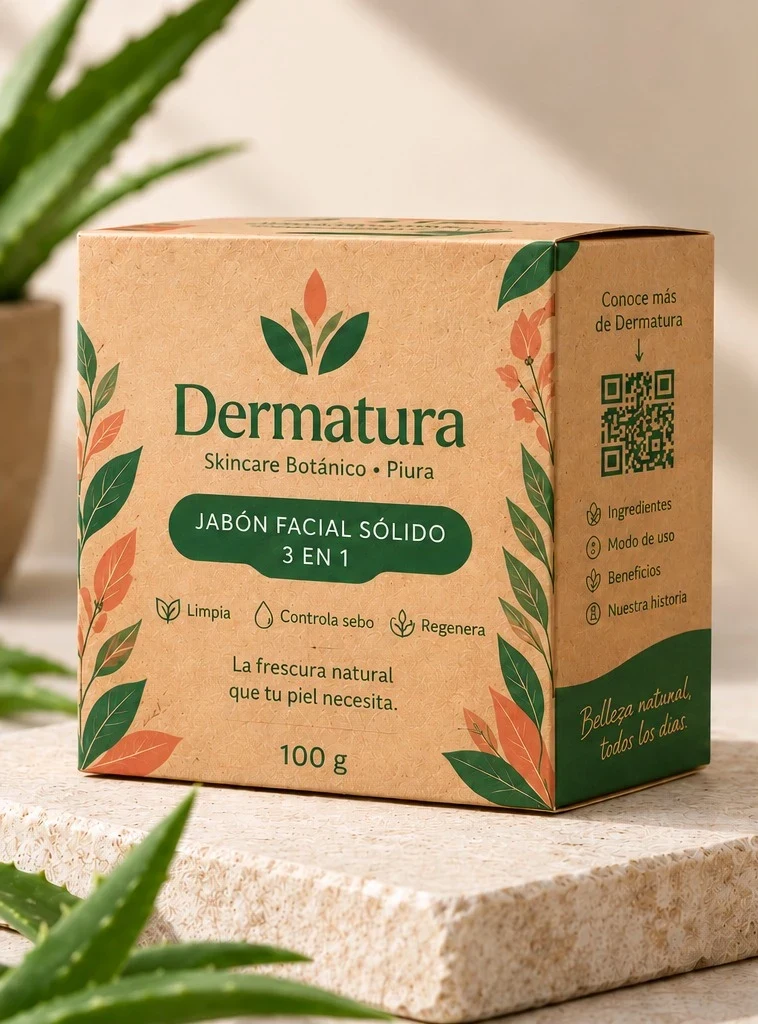
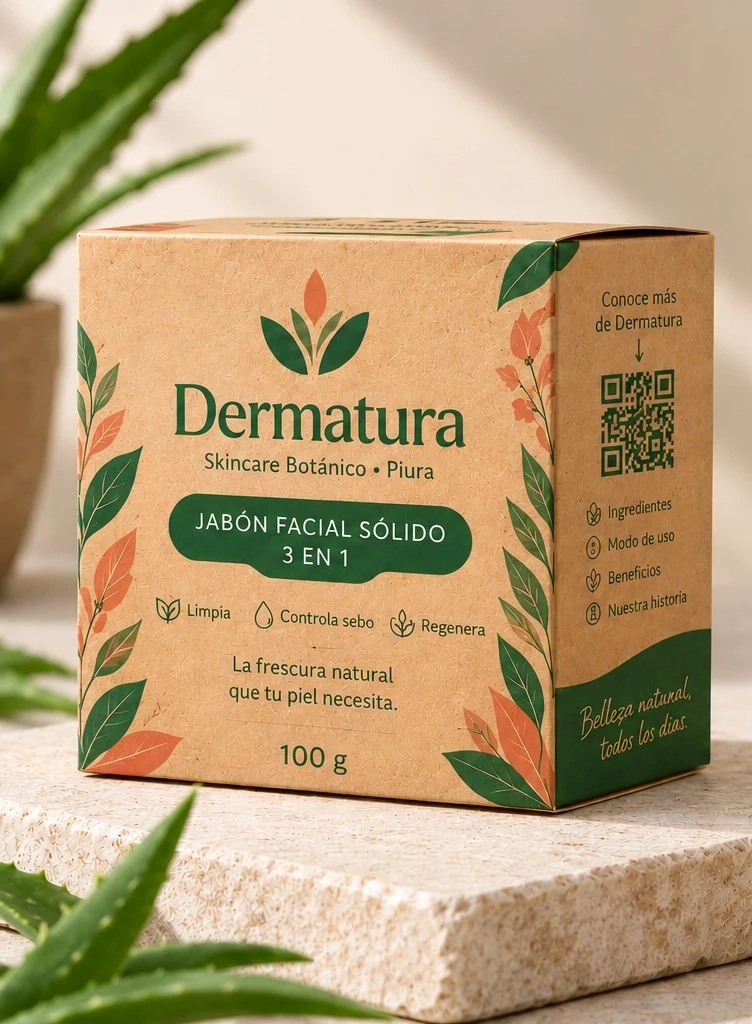
Use new standalone box and soap photos

diff --git a/index.html b/index.html
@@ -665,7 +665,7 @@
 
       <div class="stage hero-fade" style="--dl:.4s">
         <div class="photo-card" id="photoCard" role="img" aria-label="Empaque del Jabón Facial Sólido Dermatura 3 en 1" tabindex="0">
-          <img id="heroImg" src="img/dermatura-empaque.webp" width="758" height="1024" alt="Caja Dermatura Jabón Facial Sólido 3 en 1 de 100 g" width="1024" height="537" alt="" fetchpriority="high" decoding="async" />
+          <img id="heroImg" src="img/dermatura-empaque.webp" width="752" height="1024" alt="Caja Dermatura Jabón Facial Sólido 3 en 1 de 100 g" width="1024" height="537" alt="" fetchpriority="high" decoding="async" />
           <div class="shine"></div>
         </div>
         <span class="chip c1">💧 pH <b>5.5 – 6.5</b></span>
@@ -905,7 +905,7 @@
       </div>
       <div class="ing-grid">
         <figure class="ing-photo rv">
-          <img id="ingImg" width="1024" height="537" loading="lazy" decoding="async" alt="Barra de jabón facial Dermatura sobre base de madera con aloe vera" />
+          <img id="ingImg" width="759" height="1024" loading="lazy" decoding="async" alt="Barra de jabón facial Dermatura sobre base de madera con aloe vera" />
           <figcaption><strong>Aloe fresco, glicerina vegetal, cero plástico.</strong>Así se ve una barra Dermatura recién salida del molde.</figcaption>
         </figure>
         <div class="ing-list">
